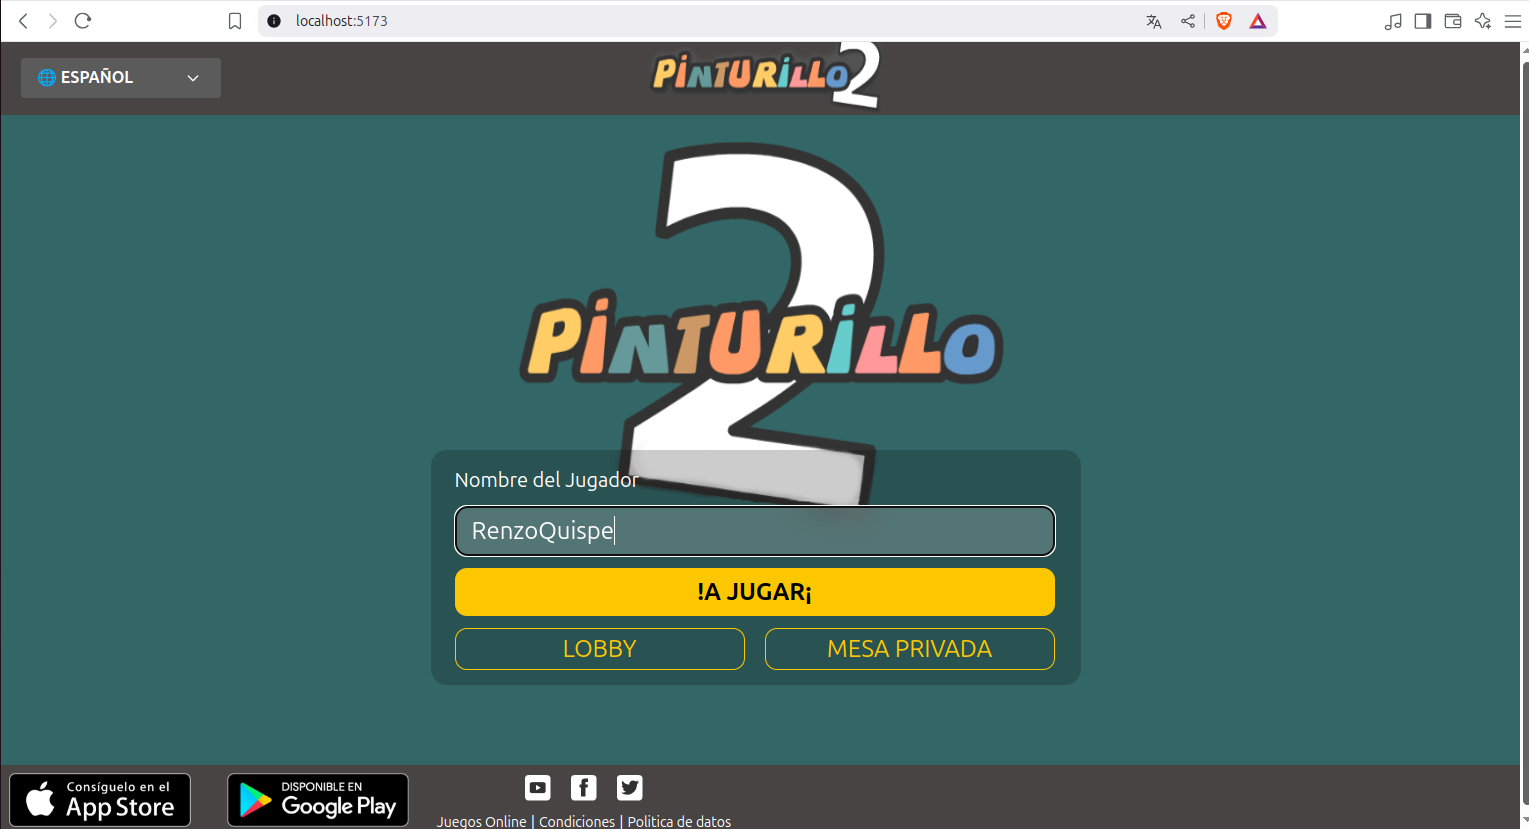
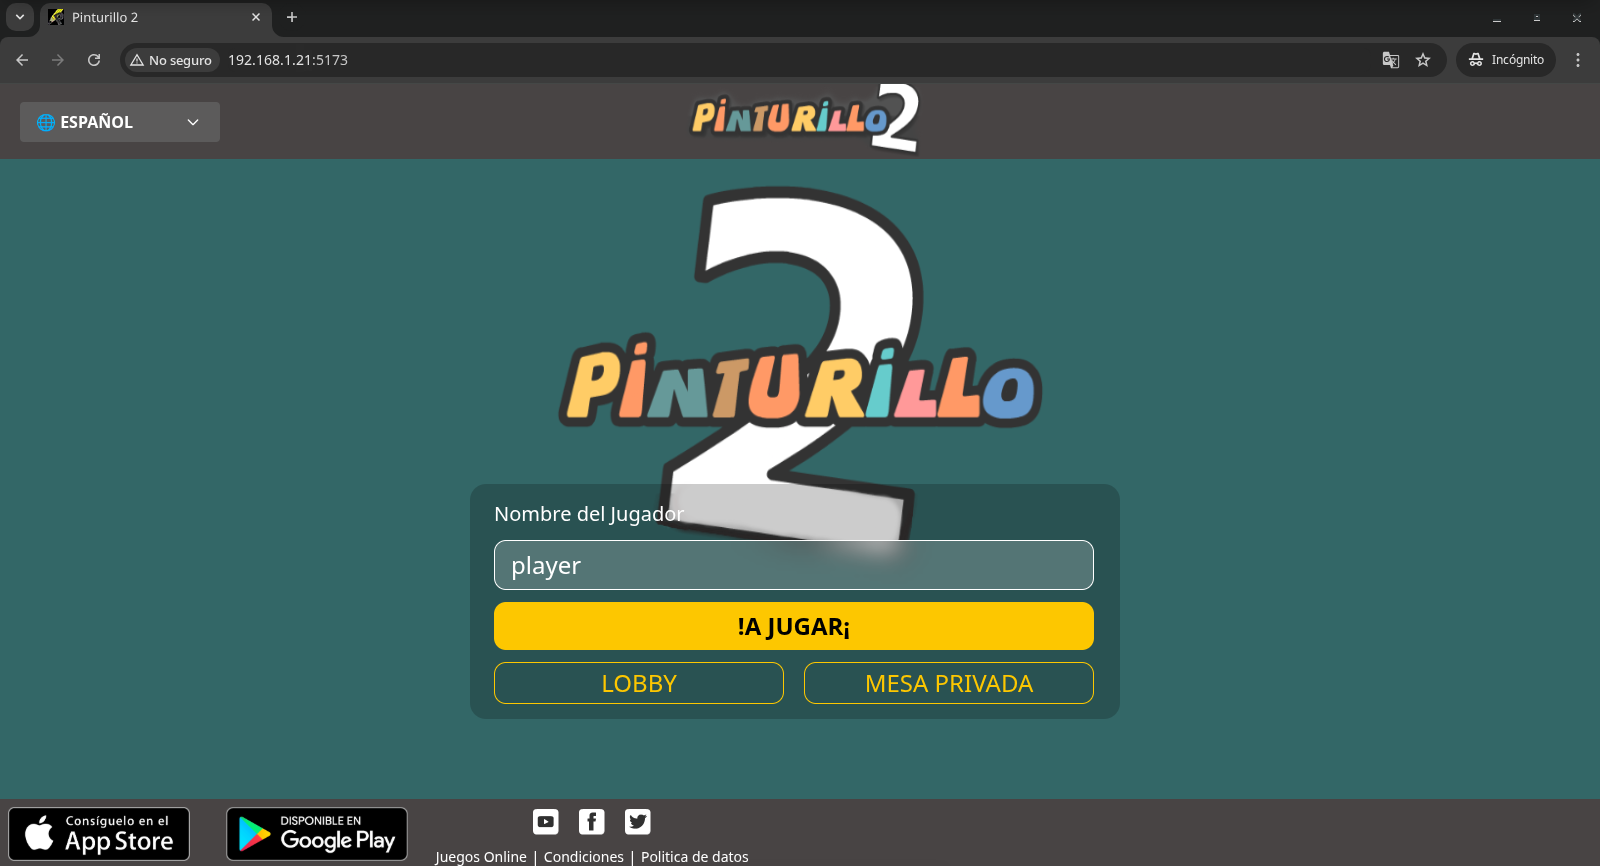
actualizar README.md

Changed region(s): [[0.0, 0.0, 1.0, 1.0], [0.0, 0.9349, 0.4918, 1.0]]

diff --git a/README.md b/README.md
@@ -1,37 +1,61 @@
 # Clon del juego Pinturillo2
-Clon del juego Pinturillo2 (https://www.pinturillo2.com/es/)
+
+Clon del juego Pinturillo2 (https://www.pinturillo2.com/es/) desarrollado con Node.js-Express-Socket.io y React. 
 
 ## Sobre el Juego
 
 Pinturillo es un juego de dibujo online, en el que los jugadores deben adivinar palabras mediante los dibujos que realiza el artista en la pizarra. Con un tiempo limitado por ronda, los jugadores deberán escribir las palabras en el chat hasta acertar. Cuanto antes acierten, más puntos ganarán. Con el boton "!A JUGAR!" te unes a una partida publica.
 
-<img src="./frontend/public/readme/inicio.png" width="800%">
+## Inicio rápido con Docker
 
-  - Crear y unirse a salas privadas
-  
-    <img src="./frontend/public/readme/crear_sala.png" width="40%">
-    <img src="./frontend/public/readme/unirse_sala.png" width="40%">
+### Configurar el archivo `.env` de ejemplo
 
-  - Juego
+Modificar `.env` de ejemplo:
+```
+NODE_PORT=3000
+HOST_IP=192.168.1.21  # ¡MODIFICAR! Reemplaza con tu IP local
+VITE_API_URL=http://${HOST_IP}:${NODE_PORT}
+```
 
-    <img src="./frontend/public/readme/juego1.png" width="60%">
+### Levantar los contenedor y acceder a la aplicación web
+
+```
+docker compose up --build
+```
+
+Accede a la aplicación web desde cualquier dispositivo en tu red local usando: `http://HOST_IP:5173` (En el ejemplo: `http://192.168.1.21:5173`)
+
+<p align="center"> 
+    <img src="./frontend/public/readme/inicio.png" width="80%">
+</p>
+
+  - Gestión de Salas
+
+<p align="center"> 
+    <img src="./frontend/public/readme/crear_sala.png" width="80%">
+    <img src="./frontend/public/readme/unirse_sala.png" width="80%">
+</p>
+
+  - Gameplay
+
+<p align="center"> 
+    <img src="./frontend/public/readme/juego1.png" width="80%">
+</p>
 
   - Fin de Partida
 
-    <img src="./frontend/public/readme/fin_partida.png" width="40%">
+<p align="center"> 
+    <img src="./frontend/public/readme/fin_partida.png" width="70%">
+</p>
 
-## Configuración
 
-### Setup .env
-Modificar frontend/.env - Ejemplo:
+  
+    
 
-```
-VITE_API_URL=http://192.168.1.10:5000
-```
-### Inicio rapido con Docker
-```
-git clone https://github.com/RenzoQuispe/ClonePinturillo2.git
-cd ClonePinturillo2
-docker-compose up --build
-```
 
+
+    
+
+
+
+    
